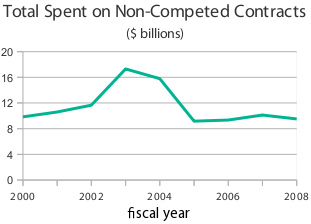
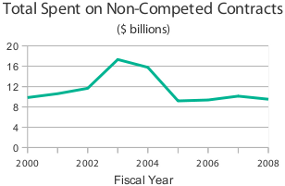
updated landing page graphics; removed search boxes from landing pages; and removed bank search/warrants boxes from homepage

diff --git a/bailout.site/trunk/templates/nonprofits/index.html b/bailout.site/trunk/templates/nonprofits/index.html
@@ -59,22 +59,18 @@
 		</div>
 </div>
 
-<div class="span-13 last">
-  <div class="sectorpage-quick-search-container">{% faads_quick_search nonprofits %}</div>
-</div>
-
 <div class="span-13 last graphs">
             
     <div class="border" style="border-right:0; padding-right: 0; margin-right: 0">
         <span class="graph-container"><a class="deanchor hoveranchor" href="{% url nonprofits-direct-expenditures %}"></a><a class="teanchor hoveranchor" href="{% url nonprofits-tax-expenditures %}"></a><img src="{% media_url %}/images/nonprofits/nonprofit_spending_homepage.png" style="float:left; display:inline;" />
-        <img src="{% media_url %}/images/nonprofits/nonprofit-subsidy_per_household.png" alt="$430: average amount spent per household on programs containing subsidies" id="nonprofit-subsidy-per-household" class="subsidy-per-household" style="width: 125px"/>
+        <img src="{% media_url %}/images/nonprofits/nonprofit-subsidy_per_household.png" alt="$430: average amount spent per household on programs containing subsidies" id="nonprofit-subsidy-per-household" class="subsidy-per-household"/>
         
         {# <span class="hhsubsidy">Average $ spent per household on programs containing subsidies: <span style="font-weight:bold;display:block;">$400</span><cite>(excludes contracts)</cite></span> #}
         </span>
     </div>
     <div class="border" style="border-right:0; padding-right: 0; margin-right: 0; padding-bottom: 30px">
-        <span style="float:left;padding-top:5px;"><img style="width: 245px" src="{% media_url %}/images/nonprofits/noncomp_fpds_spending_homepage.png" />
-        <a class="rtanchor hoveranchor" href="{% url nonprofits-risk-transfers %}"></a><img style="width: 180px" src="{% media_url %}/images/nonprofits/risktransfers_homepage.png" /></span>
+        <span style="float:left;padding-top:5px;"><img src="{% media_url %}/images/nonprofits/noncomp_fpds_spending_homepage.png" />
+        <a class="rtanchor hoveranchor" href="{% url nonprofits-risk-transfers %}"></a><img src="{% media_url %}/images/nonprofits/risktransfers_homepage.png" /></span>
         <div style="clear:left"></div>
     </div>
             

diff --git a/bailout.site/trunk/templates/index.html b/bailout.site/trunk/templates/index.html
@@ -179,13 +179,9 @@ $(function () {
 	
 	<div class="span-8 last">
 		
-    <div class="homepage-quick-search-container">{% faads_quick_search transportation %}</div>
 
 		{% news_briefs %}
 		
-		{% bank_search %}
-
-		{% tarp_warrant_tracker %}
 		
 		<div class="front_about">
 			<h3 class="front_about_head">Who is Involved?</h3>			

diff --git a/bailout.site/trunk/templates/transportation/index.html b/bailout.site/trunk/templates/transportation/index.html
@@ -56,9 +56,6 @@
 		</div>
 </div>
 
-<div class="span-13 last">
-  <div class="sectorpage-quick-search-container">{% faads_quick_search transportation %}</div>
-</div>
 
 <div class="span-13 last graphs">
     <div class="border" style="border-right:0; padding-right: 0; margin-right: 0">
